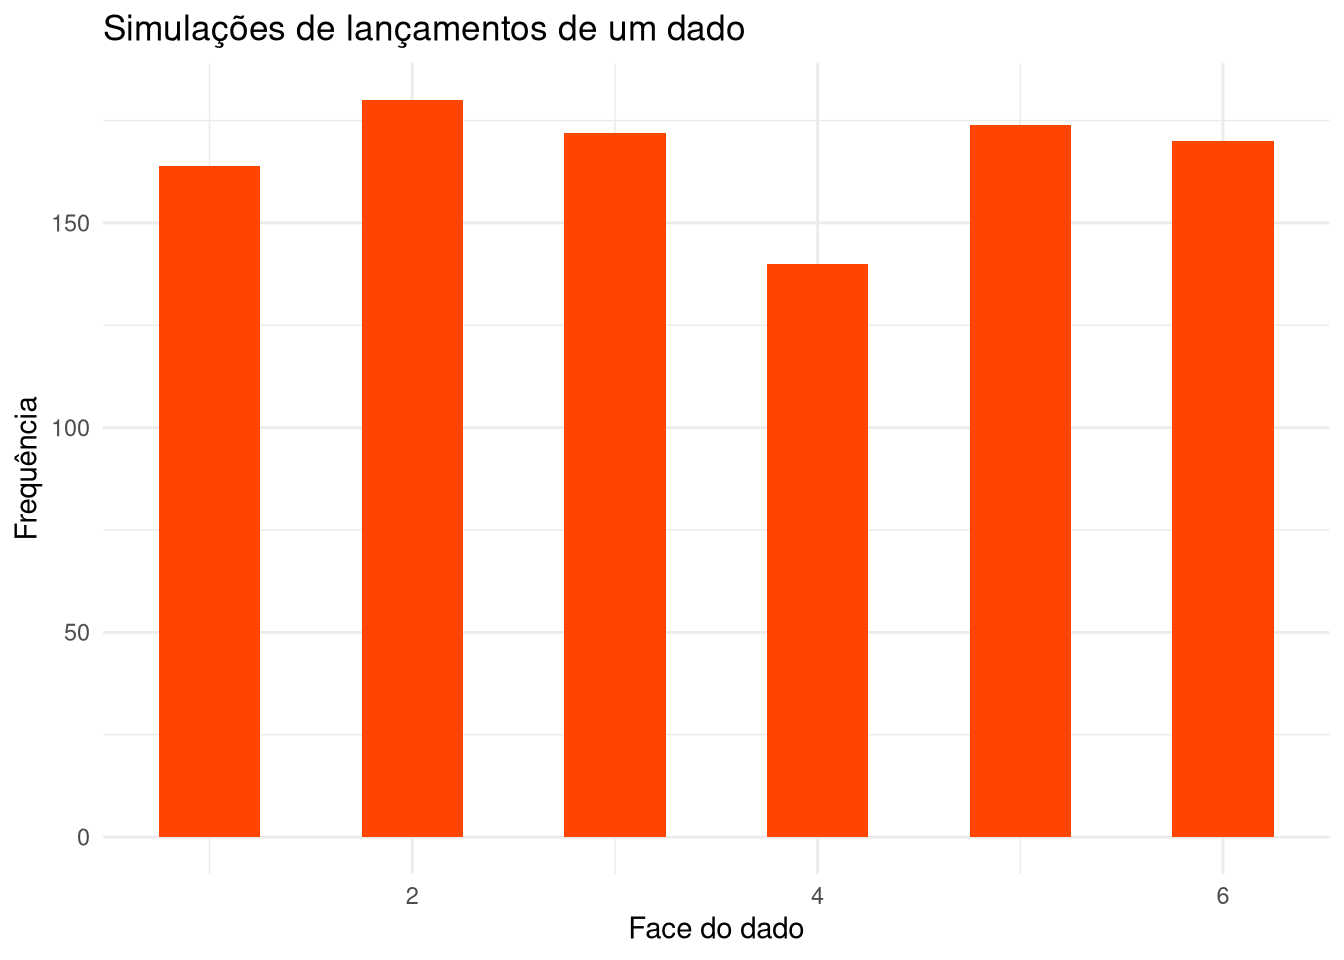
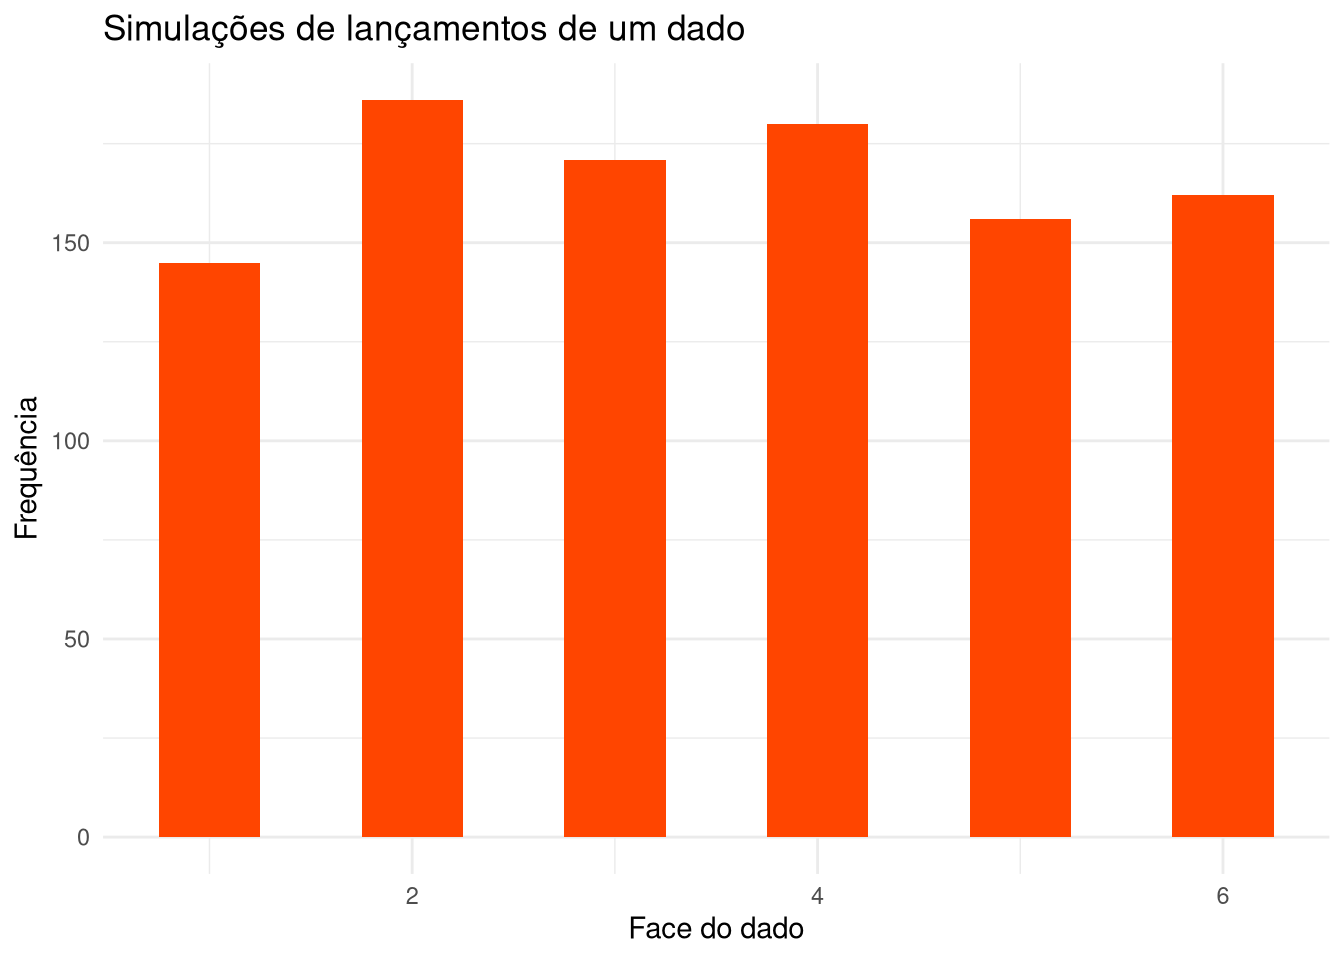
Altera link

diff --git a/lego2/topicos/topico1.html b/lego2/topicos/topico1.html
@@ -232,7 +232,7 @@ pre > code.sourceCode > span > a:first-child::before { text-decoration: underlin
 <div class="sourceCode cell-code" id="cb2"><pre class="sourceCode r code-with-copy"><code class="sourceCode r"><span id="cb2-1"><a href="#cb2-1" aria-hidden="true" tabindex="-1"></a><span class="co"># Sorteia um número entre 0 e 1</span></span>
 <span id="cb2-2"><a href="#cb2-2" aria-hidden="true" tabindex="-1"></a><span class="fu">runif</span>(<span class="dv">1</span>, <span class="at">min =</span> <span class="dv">0</span>, <span class="at">max =</span> <span class="dv">1</span>)</span></code><button title="Copiar para a área de transferência" class="code-copy-button"><i class="bi"></i></button></pre></div>
 <div class="cell-output cell-output-stdout">
-<pre><code>[1] 0.3061591</code></pre>
+<pre><code>[1] 0.5857603</code></pre>
 </div>
 </div>
 </div>
@@ -241,7 +241,7 @@ pre > code.sourceCode > span > a:first-child::before { text-decoration: underlin
 <div class="sourceCode cell-code" id="cb4"><pre class="sourceCode r code-with-copy"><code class="sourceCode r"><span id="cb4-1"><a href="#cb4-1" aria-hidden="true" tabindex="-1"></a><span class="co"># Sorteia 1 com probabilidade 0.5</span></span>
 <span id="cb4-2"><a href="#cb4-2" aria-hidden="true" tabindex="-1"></a><span class="fu">rbinom</span>(<span class="dv">1</span>, <span class="at">size =</span> <span class="dv">1</span>, <span class="at">prob =</span> <span class="fl">0.5</span>)</span></code><button title="Copiar para a área de transferência" class="code-copy-button"><i class="bi"></i></button></pre></div>
 <div class="cell-output cell-output-stdout">
-<pre><code>[1] 1</code></pre>
+<pre><code>[1] 0</code></pre>
 </div>
 </div>
 </div>
@@ -250,7 +250,7 @@ pre > code.sourceCode > span > a:first-child::before { text-decoration: underlin
 <div class="sourceCode cell-code" id="cb6"><pre class="sourceCode r code-with-copy"><code class="sourceCode r"><span id="cb6-1"><a href="#cb6-1" aria-hidden="true" tabindex="-1"></a><span class="co"># Dez sequências de Bernoulli com prob. 0.5</span></span>
 <span id="cb6-2"><a href="#cb6-2" aria-hidden="true" tabindex="-1"></a><span class="fu">rbinom</span>(<span class="dv">1</span>, <span class="at">size =</span> <span class="dv">10</span>, <span class="at">prob =</span> <span class="fl">0.5</span>)</span></code><button title="Copiar para a área de transferência" class="code-copy-button"><i class="bi"></i></button></pre></div>
 <div class="cell-output cell-output-stdout">
-<pre><code>[1] 6</code></pre>
+<pre><code>[1] 2</code></pre>
 </div>
 </div>
 </div>
@@ -259,7 +259,7 @@ pre > code.sourceCode > span > a:first-child::before { text-decoration: underlin
 <div class="sourceCode cell-code" id="cb8"><pre class="sourceCode r code-with-copy"><code class="sourceCode r"><span id="cb8-1"><a href="#cb8-1" aria-hidden="true" tabindex="-1"></a><span class="co"># Sorteia um número de uma distribuição normal</span></span>
 <span id="cb8-2"><a href="#cb8-2" aria-hidden="true" tabindex="-1"></a><span class="fu">rnorm</span>(<span class="dv">1</span>, <span class="at">mean =</span> <span class="dv">0</span>, <span class="at">sd =</span> <span class="dv">1</span>)</span></code><button title="Copiar para a área de transferência" class="code-copy-button"><i class="bi"></i></button></pre></div>
 <div class="cell-output cell-output-stdout">
-<pre><code>[1] 0.3896756</code></pre>
+<pre><code>[1] -0.8301441</code></pre>
 </div>
 </div>
 </div>
@@ -268,7 +268,7 @@ pre > code.sourceCode > span > a:first-child::before { text-decoration: underlin
 <div class="sourceCode cell-code" id="cb10"><pre class="sourceCode r code-with-copy"><code class="sourceCode r"><span id="cb10-1"><a href="#cb10-1" aria-hidden="true" tabindex="-1"></a><span class="co"># Sorteia um número de uma distribuição Poisson</span></span>
 <span id="cb10-2"><a href="#cb10-2" aria-hidden="true" tabindex="-1"></a><span class="fu">rpois</span>(<span class="dv">1</span>, <span class="at">lambda =</span> <span class="dv">1</span>)</span></code><button title="Copiar para a área de transferência" class="code-copy-button"><i class="bi"></i></button></pre></div>
 <div class="cell-output cell-output-stdout">
-<pre><code>[1] 0</code></pre>
+<pre><code>[1] 4</code></pre>
 </div>
 </div>
 </div>

diff --git a/lego2/topicos/topico4.html b/lego2/topicos/topico4.html
@@ -688,36 +688,31 @@ F-statistic: 3.475 on 7 and 437 DF,  p-value: 0.001234</code></pre>
 <td style="text-align: right;">(0.013)</td>
 </tr>
 <tr class="odd">
-<td style="text-align: left;">:———–</td>
-<td style="text-align: right;">————:</td>
-<td style="text-align: right;">———-:</td>
-</tr>
-<tr class="even">
 <td style="text-align: left;">Num.Obs.</td>
 <td style="text-align: right;">445</td>
 <td style="text-align: right;">445</td>
 </tr>
-<tr class="odd">
+<tr class="even">
 <td style="text-align: left;">R2</td>
 <td style="text-align: right;">0.018</td>
 <td style="text-align: right;">0.049</td>
 </tr>
-<tr class="even">
+<tr class="odd">
 <td style="text-align: left;">R2 Adj.</td>
 <td style="text-align: right;">0.016</td>
 <td style="text-align: right;">0.034</td>
 </tr>
-<tr class="odd">
+<tr class="even">
 <td style="text-align: left;">AIC</td>
 <td style="text-align: right;">9091.5</td>
 <td style="text-align: right;">9089.1</td>
 </tr>
-<tr class="even">
+<tr class="odd">
 <td style="text-align: left;">BIC</td>
 <td style="text-align: right;">9103.8</td>
 <td style="text-align: right;">9126.0</td>
 </tr>
-<tr class="odd">
+<tr class="even">
 <td style="text-align: left;">RMSE</td>
 <td style="text-align: right;">6564.74</td>
 <td style="text-align: right;">6459.85</td>

diff --git a/lego2/index.html b/lego2/index.html
@@ -177,7 +177,7 @@ ul.task-list li input[type="checkbox"] {
 
 <section id="sobre" class="level2">
 <h2 class="anchored" data-anchor-id="sobre">Sobre</h2>
-<p>Este é o <em>website</em> da disciplina de <strong>Lego II</strong> do <a href="http://iesp.uerj.br/">IESP-UERJ</a>. Particularmente, alguns recursos e códigos que usaremos nas nossas aulas estarão aqui. Ementa, textos e outros materiais estão <a href="https://drive.google.com/drive/folders/1ajmQgoXOsNpcZcqBnfQK8hBRhz3U-w6qTOg-2oy6uefVk8qSft4MDhZEBSGbPtSZUZFdIoMh?usp=sharing">nesta pasta no Google Drive</a>.</p>
+<p>Este é o <em>website</em> da disciplina de <strong>Lego II</strong> do <a href="http://iesp.uerj.br/">IESP-UERJ</a>. Particularmente, alguns recursos e códigos que usaremos nas nossas aulas estarão aqui. Ementa, textos e outros materiais estão <a href="https://drive.google.com/drive/folders/1jj5fMQ-SGdxStZVu_fizDSF8Qc73e95f?usp=sharing">nesta pasta no Google Drive</a>.</p>
 
 
 </section>
